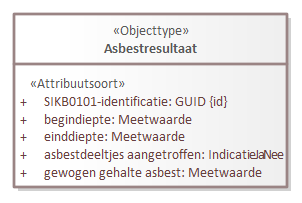
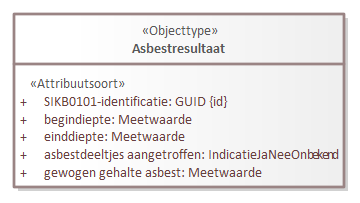
Conceptualmodel-MilieuhygienischbodemonderzoekSAD-1.08-1-20231205-20240123-155937

diff --git a/data/SAD-cat.msword.html b/data/SAD-cat.msword.html
@@ -15,7 +15,7 @@
    <body>
       <p>Conceptual model/Milieuhygienisch bodemonderzoek SAD/20231205</p>
       <p>Imvertor: Nightly-build.13</p>
-      <p>Model release: Conceptualmodel-MilieuhygienischbodemonderzoekSAD-1.08-1-20231205-20240123-154243</p>
+      <p>Model release: Conceptualmodel-MilieuhygienischbodemonderzoekSAD-1.08-1-20231205-20240123-155937</p>
       <hr>
       <section>
          <h1>Artikel 1 Definitie van registratieobject, entiteiten en attributen</h1>
@@ -66,7 +66,7 @@
          <section>
             <h2>Het domeinmodel</h2>
             <section>
-               <div class="imageinfo overview"><img src="Images/EAID_FABA90F8_223C_433d_BAE3_74F87B3DC220.png" usemap="#imagemap-EAID_FABA90F8_223C_433d_BAE3_74F87B3DC220" alt="Diagram &#xA;                        &#xA;                     "><map name="imagemap-EAID_FABA90F8_223C_433d_BAE3_74F87B3DC220"><area shape="rect" alt="Asbestresultaat" coords="1730,606,2005,781" href="#global_class_Model_Asbestresultaat"><area shape="rect" alt="Deelgebied" coords="1730,366,1975,505" href="#global_class_Model_Deelgebied"><area shape="rect" alt="Analyseproces" coords="1153,1876,1489,2015" href="#global_class_Model_Analyseproces"><area shape="rect" alt="Analyse" coords="654,1807,996,2015" href="#global_class_Model_Analyse"><area shape="rect" alt="AnalysemonsterGrondwater" coords="2176,1471,2402,1592" href="#global_class_Model_AnalysemonsterGrondwater"><area shape="rect" alt="AnalysemonsterGrond" coords="722,1079,933,1201" href="#global_class_Model_AnalysemonsterGrond"><area shape="rect" alt="Boorprofiel" coords="1135,1268,1445,1388" href="#global_class_Model_Boorprofiel"><area shape="rect" alt="Boorbeschrijving" coords="1152,1079,1427,1189" href="#global_class_Model_Boorbeschrijving"><area shape="rect" alt="Veldmeting" coords="1620,1474,2022,1648" href="#global_class_Model_Veldmeting"><area shape="rect" alt="Veldwaarneming" coords="1618,1044,1898,1189" href="#global_class_Model_Veldwaarneming"><area shape="rect" alt="AnalysemonsterGrondGemengd" coords="327,742,585,899" href="#global_class_Model_AnalysemonsterGrondGemengd"><area shape="rect" alt="Grondwatermonstername" coords="2145,1081,2436,1219" href="#global_class_Model_Grondwatermonstername"><area shape="rect" alt="Grondmonstername" coords="697,742,955,935" href="#global_class_Model_Grondmonstername"><area shape="rect" alt="Filter" coords="2091,752,2493,950" href="#global_class_Model_Filter"><area shape="rect" alt="Bodemlaag" coords="1134,1475,1445,1708" href="#global_class_Model_Bodemlaag"><area shape="rect" alt="Meetpunt" coords="1073,742,1508,976" href="#global_class_Model_Meetpunt"><area shape="rect" alt="Registratieobject" coords="1134,8,1442,183" href="#global_class_Model_Registratieobject"><area shape="rect" alt="Bodemonderzoek" coords="1021,266,1554,605" href="#global_class_Model_Bodemonderzoek"></map><p><b>Domeinmodel milieuhygienisch bodemonderzoek</b></p>
+               <div class="imageinfo overview"><img src="Images/EAID_FABA90F8_223C_433d_BAE3_74F87B3DC220.png" usemap="#imagemap-EAID_FABA90F8_223C_433d_BAE3_74F87B3DC220" alt="Diagram &#xA;                        &#xA;                     "><map name="imagemap-EAID_FABA90F8_223C_433d_BAE3_74F87B3DC220"><area shape="rect" alt="Asbestresultaat" coords="1688,655,2020,830" href="#global_class_Model_Asbestresultaat"><area shape="rect" alt="Deelgebied" coords="1732,375,1976,514" href="#global_class_Model_Deelgebied"><area shape="rect" alt="Analyseproces" coords="1153,1876,1489,2015" href="#global_class_Model_Analyseproces"><area shape="rect" alt="Analyse" coords="654,1807,996,2015" href="#global_class_Model_Analyse"><area shape="rect" alt="AnalysemonsterGrondwater" coords="2176,1471,2402,1592" href="#global_class_Model_AnalysemonsterGrondwater"><area shape="rect" alt="AnalysemonsterGrond" coords="722,1079,933,1201" href="#global_class_Model_AnalysemonsterGrond"><area shape="rect" alt="Boorprofiel" coords="1135,1268,1445,1388" href="#global_class_Model_Boorprofiel"><area shape="rect" alt="Boorbeschrijving" coords="1152,1079,1427,1189" href="#global_class_Model_Boorbeschrijving"><area shape="rect" alt="Veldmeting" coords="1620,1474,2022,1648" href="#global_class_Model_Veldmeting"><area shape="rect" alt="Veldwaarneming" coords="1618,1044,1898,1189" href="#global_class_Model_Veldwaarneming"><area shape="rect" alt="AnalysemonsterGrondGemengd" coords="327,742,585,899" href="#global_class_Model_AnalysemonsterGrondGemengd"><area shape="rect" alt="Grondwatermonstername" coords="2145,1081,2436,1219" href="#global_class_Model_Grondwatermonstername"><area shape="rect" alt="Grondmonstername" coords="697,742,955,935" href="#global_class_Model_Grondmonstername"><area shape="rect" alt="Filter" coords="2091,752,2493,950" href="#global_class_Model_Filter"><area shape="rect" alt="Bodemlaag" coords="1134,1475,1445,1708" href="#global_class_Model_Bodemlaag"><area shape="rect" alt="Meetpunt" coords="1073,742,1508,976" href="#global_class_Model_Meetpunt"><area shape="rect" alt="Registratieobject" coords="1134,8,1442,183" href="#global_class_Model_Registratieobject"><area shape="rect" alt="Bodemonderzoek" coords="1021,266,1554,605" href="#global_class_Model_Bodemonderzoek"></map><p><b>Domeinmodel milieuhygienisch bodemonderzoek</b></p>
                </div>
             </section>
          </section>
@@ -933,7 +933,7 @@
                         </tbody>
                      </table>
                      </section>
-                  <section id="detail_d105012e4899">
+                  <section id="detail_d105402e4899">
                      <h4>  registratiegeschiedenis</h4>
                      <table style="width: 100%;">
                         <colgroup style="width: 30%;"></colgroup>
@@ -980,7 +980,7 @@
                         </tbody>
                      </table>
                   </section>
-                  <section id="detail_d105012e5127">
+                  <section id="detail_d105402e5127">
                      <h4>  gestandaardiseerde locatie</h4>
                      <table style="width: 100%;">
                         <colgroup style="width: 30%;"></colgroup>
@@ -1025,7 +1025,7 @@
                         </tbody>
                      </table>
                   </section>
-                  <section id="detail_d105012e5355">
+                  <section id="detail_d105402e5355">
                      <h4>  rapport</h4>
                      <table style="width: 100%;">
                         <colgroup style="width: 30%;"></colgroup>
@@ -2474,7 +2474,7 @@
                         </tbody>
                      </table>
                      </section>
-                  <section id="detail_d105012e10819">
+                  <section id="detail_d105402e11119">
                      <h4>  aangeleverde verticale positie</h4>
                      <table style="width: 100%;">
                         <colgroup style="width: 30%;"></colgroup>
@@ -2504,6 +2504,52 @@
                               <th>Gegevensgroeptype</th>
                               <td>
                                  <a class="link" href="#global_class_Model_Aangeleverdeverticalepositie">Aangeleverde verticale positie</a>
+                                 </td>
+                           </tr>
+                        </tbody>
+                     </table>
+                  </section>
+                  <section id="detail_association_Model_Meetpunt_Asbestresultaat">
+                     <h4>  Asbestresultaat</h4>
+                     <table style="width: 100%;">
+                        <colgroup style="width: 30%;"></colgroup>
+                        <colgroup style="width: 70%;"></colgroup>
+                        <tbody>
+                           <tr>
+                              <th>Type gegeven</th>
+                              <td>Associatie van Meetpunt</td>
+                           </tr>
+                           <tr>
+                              <th>Definitie</th>
+                              <td>
+                                 
+                                 <p>De gegevens die betrekking hebben op de resultaten van het asbestonderzoek.</p>
+                                 </td>
+                           </tr>
+                           <tr>
+                              <th>Juridische status</th>
+                              <td>Authentiek</td>
+                           </tr>
+                           <tr>
+                              <th>Kardinaliteit</th>
+                              <td>0..*</td>
+                           </tr>
+                           <tr>
+                              <th>Relatiesoort naam</th>
+                              <td>heeft</td>
+                           </tr>
+                           <tr>
+                              <th>Relatierol naam</th>
+                              <td>Asbestresultaat</td>
+                           </tr>
+                           <tr>
+                              <th>Bron</th>
+                              <td>Meetpunt</td>
+                           </tr>
+                           <tr>
+                              <th>Doel</th>
+                              <td>
+                                 Asbestresultaat
                                  </td>
                            </tr>
                         </tbody>
@@ -3445,7 +3491,7 @@
                         </tbody>
                      </table>
                      </section>
-                  <section id="detail_d105012e14257">
+                  <section id="detail_d105402e14557">
                      <h4>  grond</h4>
                      <table style="width: 100%;">
                         <colgroup style="width: 30%;"></colgroup>
@@ -3488,7 +3534,7 @@
                         </tbody>
                      </table>
                   </section>
-                  <section id="detail_d105012e14489">
+                  <section id="detail_d105402e14789">
                      <h4>  kleurwaarneming</h4>
                      <table style="width: 100%;">
                         <colgroup style="width: 30%;"></colgroup>
@@ -3522,7 +3568,7 @@
                         </tbody>
                      </table>
                   </section>
-                  <section id="detail_d105012e14674">
+                  <section id="detail_d105402e14974">
                      <h4>  bijzonder bestanddeel</h4>
                      <table style="width: 100%;">
                         <colgroup style="width: 30%;"></colgroup>
@@ -5273,7 +5319,7 @@
                         </tbody>
                      </table>
                      </section>
-                  <section id="detail_d105012e21237">
+                  <section id="detail_d105402e21537">
                      <h4>  aangeleverde verticale positie</h4>
                      <table style="width: 100%;">
                         <colgroup style="width: 30%;"></colgroup>
@@ -5742,7 +5788,7 @@
                         </tbody>
                      </table>
                      </section>
-                  <section id="detail_d105012e23015">
+                  <section id="detail_d105402e23315">
                      <h4>  kleurwaarneming</h4>
                      <table style="width: 100%;">
                         <colgroup style="width: 30%;"></colgroup>
@@ -7101,7 +7147,7 @@
                </section>
                <section id="global_class_Model_Asbestresultaat">
                   <h3>   Asbestresultaat</h3>
-                  <div class="imageinfo "><img src="Images/EAID_6439B91C_82B4_4e4c_919F_C6FB087358F9.png" usemap="#imagemap-EAID_6439B91C_82B4_4e4c_919F_C6FB087358F9" alt="Diagram "><map name="imagemap-EAID_6439B91C_82B4_4e4c_919F_C6FB087358F9"><area shape="rect" alt="Asbestresultaat" coords="14,14,288,188" href="#global_class_Model_Asbestresultaat"></map></div>
+                  <div class="imageinfo "><img src="Images/EAID_6439B91C_82B4_4e4c_919F_C6FB087358F9.png" usemap="#imagemap-EAID_6439B91C_82B4_4e4c_919F_C6FB087358F9" alt="Diagram "><map name="imagemap-EAID_6439B91C_82B4_4e4c_919F_C6FB087358F9"><area shape="rect" alt="Asbestresultaat" coords="14,14,345,188" href="#global_class_Model_Asbestresultaat"></map></div>
                   <table style="width: 100%;">
                      <colgroup style="width: 30%;"></colgroup>
                      <colgroup style="width: 70%;"></colgroup>
@@ -7115,6 +7161,15 @@
                            <td>
                               
                               <p>De gegevens die betrekking hebben op de resultaten van het asbestonderzoek.</p>
+                              </td>
+                        </tr>
+                        <tr>
+                           <th>Regels</th>
+                           <td>
+                              
+                              <p>Absestresultaten moeten aanwezig zijn indien het <em>type onderzoek</em>  van de entiteit <em>Bodemonderzoek</em> één van de volgende waarden heeft: asbestOnderzoekNEN5707' (SIKB0101ID 21), verkennendAsbestOnderzoek
+                                 (SIKB0101ID 40), naderEnAsbestonderzoek (SIKB0101ID 41) of onderzoekNormNEN5897 (SIKB0101ID
+                                 43).</p>
                               </td>
                         </tr>
                      </tbody>
@@ -7322,7 +7377,7 @@
                            <tr>
                               <th>&nbsp;&nbsp;Naam</th>
                               <td>
-                                 IndicatieJaNee
+                                 IndicatieJaNeeOnbekend
                                  </td>
                            </tr>
                            <tr>

diff --git a/data/SAD-cat.respec.html b/data/SAD-cat.respec.html
@@ -44,7 +44,7 @@
       </section>
    <section>
       <h2>Het domeinmodel   </h2>
-      <div class="imageinfo overview"><img src="data/Images/EAID_FABA90F8_223C_433d_BAE3_74F87B3DC220.png" usemap="#imagemap-EAID_FABA90F8_223C_433d_BAE3_74F87B3DC220" alt="Diagram &#xA;                        &#xA;                     "><map name="imagemap-EAID_FABA90F8_223C_433d_BAE3_74F87B3DC220"><area shape="rect" alt="Asbestresultaat" coords="1730,606,2005,781" href="#global_class_Model_Asbestresultaat"><area shape="rect" alt="Deelgebied" coords="1730,366,1975,505" href="#global_class_Model_Deelgebied"><area shape="rect" alt="Analyseproces" coords="1153,1876,1489,2015" href="#global_class_Model_Analyseproces"><area shape="rect" alt="Analyse" coords="654,1807,996,2015" href="#global_class_Model_Analyse"><area shape="rect" alt="AnalysemonsterGrondwater" coords="2176,1471,2402,1592" href="#global_class_Model_AnalysemonsterGrondwater"><area shape="rect" alt="AnalysemonsterGrond" coords="722,1079,933,1201" href="#global_class_Model_AnalysemonsterGrond"><area shape="rect" alt="Boorprofiel" coords="1135,1268,1445,1388" href="#global_class_Model_Boorprofiel"><area shape="rect" alt="Boorbeschrijving" coords="1152,1079,1427,1189" href="#global_class_Model_Boorbeschrijving"><area shape="rect" alt="Veldmeting" coords="1620,1474,2022,1648" href="#global_class_Model_Veldmeting"><area shape="rect" alt="Veldwaarneming" coords="1618,1044,1898,1189" href="#global_class_Model_Veldwaarneming"><area shape="rect" alt="AnalysemonsterGrondGemengd" coords="327,742,585,899" href="#global_class_Model_AnalysemonsterGrondGemengd"><area shape="rect" alt="Grondwatermonstername" coords="2145,1081,2436,1219" href="#global_class_Model_Grondwatermonstername"><area shape="rect" alt="Grondmonstername" coords="697,742,955,935" href="#global_class_Model_Grondmonstername"><area shape="rect" alt="Filter" coords="2091,752,2493,950" href="#global_class_Model_Filter"><area shape="rect" alt="Bodemlaag" coords="1134,1475,1445,1708" href="#global_class_Model_Bodemlaag"><area shape="rect" alt="Meetpunt" coords="1073,742,1508,976" href="#global_class_Model_Meetpunt"><area shape="rect" alt="Registratieobject" coords="1134,8,1442,183" href="#global_class_Model_Registratieobject"><area shape="rect" alt="Bodemonderzoek" coords="1021,266,1554,605" href="#global_class_Model_Bodemonderzoek"></map><p><b>Domeinmodel milieuhygienisch bodemonderzoek</b></p>
+      <div class="imageinfo overview"><img src="data/Images/EAID_FABA90F8_223C_433d_BAE3_74F87B3DC220.png" usemap="#imagemap-EAID_FABA90F8_223C_433d_BAE3_74F87B3DC220" alt="Diagram &#xA;                        &#xA;                     "><map name="imagemap-EAID_FABA90F8_223C_433d_BAE3_74F87B3DC220"><area shape="rect" alt="Asbestresultaat" coords="1688,655,2020,830" href="#global_class_Model_Asbestresultaat"><area shape="rect" alt="Deelgebied" coords="1732,375,1976,514" href="#global_class_Model_Deelgebied"><area shape="rect" alt="Analyseproces" coords="1153,1876,1489,2015" href="#global_class_Model_Analyseproces"><area shape="rect" alt="Analyse" coords="654,1807,996,2015" href="#global_class_Model_Analyse"><area shape="rect" alt="AnalysemonsterGrondwater" coords="2176,1471,2402,1592" href="#global_class_Model_AnalysemonsterGrondwater"><area shape="rect" alt="AnalysemonsterGrond" coords="722,1079,933,1201" href="#global_class_Model_AnalysemonsterGrond"><area shape="rect" alt="Boorprofiel" coords="1135,1268,1445,1388" href="#global_class_Model_Boorprofiel"><area shape="rect" alt="Boorbeschrijving" coords="1152,1079,1427,1189" href="#global_class_Model_Boorbeschrijving"><area shape="rect" alt="Veldmeting" coords="1620,1474,2022,1648" href="#global_class_Model_Veldmeting"><area shape="rect" alt="Veldwaarneming" coords="1618,1044,1898,1189" href="#global_class_Model_Veldwaarneming"><area shape="rect" alt="AnalysemonsterGrondGemengd" coords="327,742,585,899" href="#global_class_Model_AnalysemonsterGrondGemengd"><area shape="rect" alt="Grondwatermonstername" coords="2145,1081,2436,1219" href="#global_class_Model_Grondwatermonstername"><area shape="rect" alt="Grondmonstername" coords="697,742,955,935" href="#global_class_Model_Grondmonstername"><area shape="rect" alt="Filter" coords="2091,752,2493,950" href="#global_class_Model_Filter"><area shape="rect" alt="Bodemlaag" coords="1134,1475,1445,1708" href="#global_class_Model_Bodemlaag"><area shape="rect" alt="Meetpunt" coords="1073,742,1508,976" href="#global_class_Model_Meetpunt"><area shape="rect" alt="Registratieobject" coords="1134,8,1442,183" href="#global_class_Model_Registratieobject"><area shape="rect" alt="Bodemonderzoek" coords="1021,266,1554,605" href="#global_class_Model_Bodemonderzoek"></map><p><b>Domeinmodel milieuhygienisch bodemonderzoek</b></p>
       </div>
    </section>
    <section>
@@ -909,7 +909,7 @@
                </tbody>
             </table>
             </section>
-         <section id="detail_d105012e4899">
+         <section id="detail_d105402e4899">
             <h4>  registratiegeschiedenis</h4>
             <table style="width: 100%;">
                <colgroup style="width: 30%;"></colgroup>
@@ -956,7 +956,7 @@
                </tbody>
             </table>
          </section>
-         <section id="detail_d105012e5127">
+         <section id="detail_d105402e5127">
             <h4>  gestandaardiseerde locatie</h4>
             <table style="width: 100%;">
                <colgroup style="width: 30%;"></colgroup>
@@ -1001,7 +1001,7 @@
                </tbody>
             </table>
          </section>
-         <section id="detail_d105012e5355">
+         <section id="detail_d105402e5355">
             <h4>  rapport</h4>
             <table style="width: 100%;">
                <colgroup style="width: 30%;"></colgroup>
@@ -2450,7 +2450,7 @@
                </tbody>
             </table>
             </section>
-         <section id="detail_d105012e10819">
+         <section id="detail_d105402e11119">
             <h4>  aangeleverde verticale positie</h4>
             <table style="width: 100%;">
                <colgroup style="width: 30%;"></colgroup>
@@ -2480,6 +2480,52 @@
                      <th>Gegevensgroeptype</th>
                      <td>
                         <a class="link" href="#global_class_Model_Aangeleverdeverticalepositie">Aangeleverde verticale positie</a>
+                        </td>
+                  </tr>
+               </tbody>
+            </table>
+         </section>
+         <section id="detail_association_Model_Meetpunt_Asbestresultaat">
+            <h4>  Asbestresultaat</h4>
+            <table style="width: 100%;">
+               <colgroup style="width: 30%;"></colgroup>
+               <colgroup style="width: 70%;"></colgroup>
+               <tbody>
+                  <tr>
+                     <th>Type gegeven</th>
+                     <td>Associatie van Meetpunt</td>
+                  </tr>
+                  <tr>
+                     <th>Definitie</th>
+                     <td>
+                        
+                        <p>De gegevens die betrekking hebben op de resultaten van het asbestonderzoek.</p>
+                        </td>
+                  </tr>
+                  <tr>
+                     <th>Juridische status</th>
+                     <td>Authentiek</td>
+                  </tr>
+                  <tr>
+                     <th>Kardinaliteit</th>
+                     <td>0..*</td>
+                  </tr>
+                  <tr>
+                     <th>Relatiesoort naam</th>
+                     <td>heeft</td>
+                  </tr>
+                  <tr>
+                     <th>Relatierol naam</th>
+                     <td>Asbestresultaat</td>
+                  </tr>
+                  <tr>
+                     <th>Bron</th>
+                     <td>Meetpunt</td>
+                  </tr>
+                  <tr>
+                     <th>Doel</th>
+                     <td>
+                        Asbestresultaat
                         </td>
                   </tr>
                </tbody>
@@ -3421,7 +3467,7 @@
                </tbody>
             </table>
             </section>
-         <section id="detail_d105012e14257">
+         <section id="detail_d105402e14557">
             <h4>  grond</h4>
             <table style="width: 100%;">
                <colgroup style="width: 30%;"></colgroup>
@@ -3464,7 +3510,7 @@
                </tbody>
             </table>
          </section>
-         <section id="detail_d105012e14489">
+         <section id="detail_d105402e14789">
             <h4>  kleurwaarneming</h4>
             <table style="width: 100%;">
                <colgroup style="width: 30%;"></colgroup>
@@ -3498,7 +3544,7 @@
                </tbody>
             </table>
          </section>
-         <section id="detail_d105012e14674">
+         <section id="detail_d105402e14974">
             <h4>  bijzonder bestanddeel</h4>
             <table style="width: 100%;">
                <colgroup style="width: 30%;"></colgroup>
@@ -5249,7 +5295,7 @@
                </tbody>
             </table>
             </section>
-         <section id="detail_d105012e21237">
+         <section id="detail_d105402e21537">
             <h4>  aangeleverde verticale positie</h4>
             <table style="width: 100%;">
                <colgroup style="width: 30%;"></colgroup>
@@ -5718,7 +5764,7 @@
                </tbody>
             </table>
             </section>
-         <section id="detail_d105012e23015">
+         <section id="detail_d105402e23315">
             <h4>  kleurwaarneming</h4>
             <table style="width: 100%;">
                <colgroup style="width: 30%;"></colgroup>
@@ -7077,7 +7123,7 @@
       </section>
       <section id="global_class_Model_Asbestresultaat">
          <h3>   Asbestresultaat</h3>
-         <div class="imageinfo "><img src="data/Images/EAID_6439B91C_82B4_4e4c_919F_C6FB087358F9.png" usemap="#imagemap-EAID_6439B91C_82B4_4e4c_919F_C6FB087358F9" alt="Diagram "><map name="imagemap-EAID_6439B91C_82B4_4e4c_919F_C6FB087358F9"><area shape="rect" alt="Asbestresultaat" coords="14,14,288,188" href="#global_class_Model_Asbestresultaat"></map></div>
+         <div class="imageinfo "><img src="data/Images/EAID_6439B91C_82B4_4e4c_919F_C6FB087358F9.png" usemap="#imagemap-EAID_6439B91C_82B4_4e4c_919F_C6FB087358F9" alt="Diagram "><map name="imagemap-EAID_6439B91C_82B4_4e4c_919F_C6FB087358F9"><area shape="rect" alt="Asbestresultaat" coords="14,14,345,188" href="#global_class_Model_Asbestresultaat"></map></div>
          <table style="width: 100%;">
             <colgroup style="width: 30%;"></colgroup>
             <colgroup style="width: 70%;"></colgroup>
@@ -7091,6 +7137,15 @@
                   <td>
                      
                      <p>De gegevens die betrekking hebben op de resultaten van het asbestonderzoek.</p>
+                     </td>
+               </tr>
+               <tr>
+                  <th>Regels</th>
+                  <td>
+                     
+                     <p>Absestresultaten moeten aanwezig zijn indien het <em>type onderzoek</em>  van de entiteit <em>Bodemonderzoek</em> één van de volgende waarden heeft: asbestOnderzoekNEN5707' (SIKB0101ID 21), verkennendAsbestOnderzoek
+                        (SIKB0101ID 40), naderEnAsbestonderzoek (SIKB0101ID 41) of onderzoekNormNEN5897 (SIKB0101ID
+                        43).</p>
                      </td>
                </tr>
             </tbody>
@@ -7298,7 +7353,7 @@
                   <tr>
                      <th>&nbsp;&nbsp;Naam</th>
                      <td>
-                        IndicatieJaNee
+                        IndicatieJaNeeOnbekend
                         </td>
                   </tr>
                   <tr>
